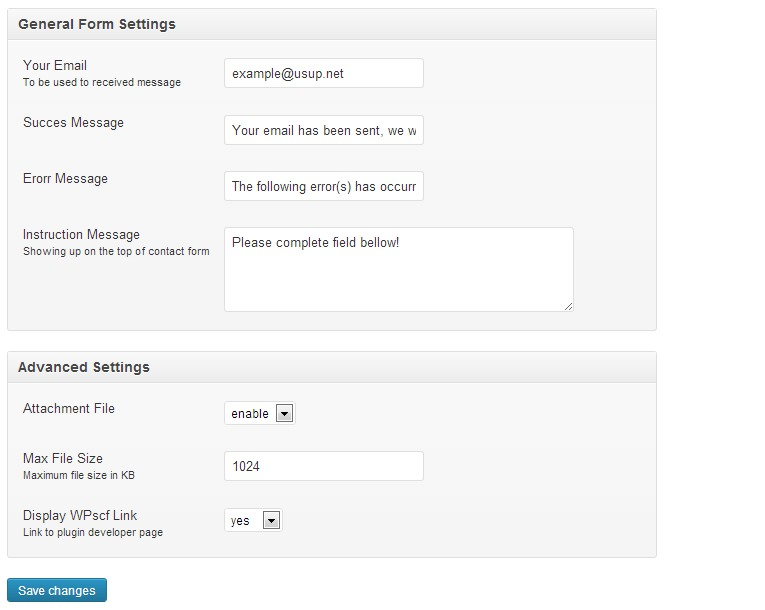
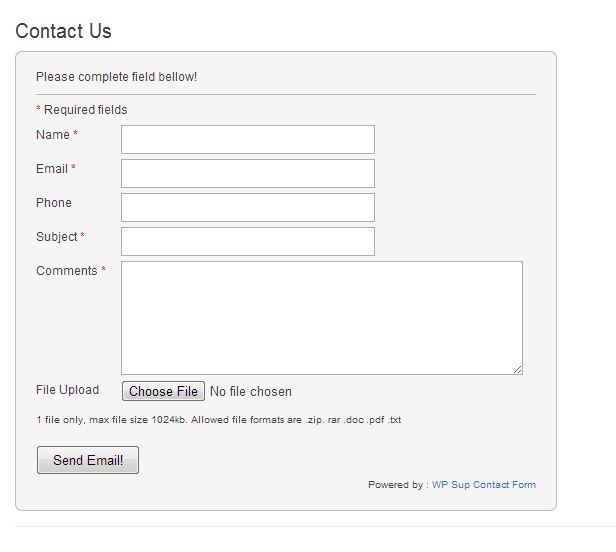
changed
git-svn-id: https://plugins.svn.wordpress.org/wp-sup-contact-form/trunk@812287 b8457f37-d9ea-0310-8a92-e5e31aec5664

diff --git a/recaptchalib.php b/recaptchalib.php
@@ -1,0 +1,277 @@
+<?php
+/*
+ * This is a PHP library that handles calling reCAPTCHA.
+ *    - Documentation and latest version
+ *          http://recaptcha.net/plugins/php/
+ *    - Get a reCAPTCHA API Key
+ *          https://www.google.com/recaptcha/admin/create
+ *    - Discussion group
+ *          http://groups.google.com/group/recaptcha
+ *
+ * Copyright (c) 2007 reCAPTCHA -- http://recaptcha.net
+ * AUTHORS:
+ *   Mike Crawford
+ *   Ben Maurer
+ *
+ * Permission is hereby granted, free of charge, to any person obtaining a copy
+ * of this software and associated documentation files (the "Software"), to deal
+ * in the Software without restriction, including without limitation the rights
+ * to use, copy, modify, merge, publish, distribute, sublicense, and/or sell
+ * copies of the Software, and to permit persons to whom the Software is
+ * furnished to do so, subject to the following conditions:
+ *
+ * The above copyright notice and this permission notice shall be included in
+ * all copies or substantial portions of the Software.
+ *
+ * THE SOFTWARE IS PROVIDED "AS IS", WITHOUT WARRANTY OF ANY KIND, EXPRESS OR
+ * IMPLIED, INCLUDING BUT NOT LIMITED TO THE WARRANTIES OF MERCHANTABILITY,
+ * FITNESS FOR A PARTICULAR PURPOSE AND NONINFRINGEMENT. IN NO EVENT SHALL THE
+ * AUTHORS OR COPYRIGHT HOLDERS BE LIABLE FOR ANY CLAIM, DAMAGES OR OTHER
+ * LIABILITY, WHETHER IN AN ACTION OF CONTRACT, TORT OR OTHERWISE, ARISING FROM,
+ * OUT OF OR IN CONNECTION WITH THE SOFTWARE OR THE USE OR OTHER DEALINGS IN
+ * THE SOFTWARE.
+ */
+
+/**
+ * The reCAPTCHA server URL's
+ */
+define("RECAPTCHA_API_SERVER", "http://www.google.com/recaptcha/api");
+define("RECAPTCHA_API_SECURE_SERVER", "https://www.google.com/recaptcha/api");
+define("RECAPTCHA_VERIFY_SERVER", "www.google.com");
+
+/**
+ * Encodes the given data into a query string format
+ * @param $data - array of string elements to be encoded
+ * @return string - encoded request
+ */
+function _recaptcha_qsencode ($data) {
+        $req = "";
+        foreach ( $data as $key => $value )
+                $req .= $key . '=' . urlencode( stripslashes($value) ) . '&';
+
+        // Cut the last '&'
+        $req=substr($req,0,strlen($req)-1);
+        return $req;
+}
+
+
+
+/**
+ * Submits an HTTP POST to a reCAPTCHA server
+ * @param string $host
+ * @param string $path
+ * @param array $data
+ * @param int port
+ * @return array response
+ */
+function _recaptcha_http_post($host, $path, $data, $port = 80) {
+
+        $req = _recaptcha_qsencode ($data);
+
+        $http_request  = "POST $path HTTP/1.0\r\n";
+        $http_request .= "Host: $host\r\n";
+        $http_request .= "Content-Type: application/x-www-form-urlencoded;\r\n";
+        $http_request .= "Content-Length: " . strlen($req) . "\r\n";
+        $http_request .= "User-Agent: reCAPTCHA/PHP\r\n";
+        $http_request .= "\r\n";
+        $http_request .= $req;
+
+        $response = '';
+        if( false == ( $fs = @fsockopen($host, $port, $errno, $errstr, 10) ) ) {
+                die ('Could not open socket');
+        }
+
+        fwrite($fs, $http_request);
+
+        while ( !feof($fs) )
+                $response .= fgets($fs, 1160); // One TCP-IP packet
+        fclose($fs);
+        $response = explode("\r\n\r\n", $response, 2);
+
+        return $response;
+}
+
+
+
+/**
+ * Gets the challenge HTML (javascript and non-javascript version).
+ * This is called from the browser, and the resulting reCAPTCHA HTML widget
+ * is embedded within the HTML form it was called from.
+ * @param string $pubkey A public key for reCAPTCHA
+ * @param string $error The error given by reCAPTCHA (optional, default is null)
+ * @param boolean $use_ssl Should the request be made over ssl? (optional, default is false)
+
+ * @return string - The HTML to be embedded in the user's form.
+ */
+function recaptcha_get_html ($pubkey, $error = null, $use_ssl = false)
+{
+	if ($pubkey == null || $pubkey == '') {
+		die ("To use reCAPTCHA you must get an API key from <a href='https://www.google.com/recaptcha/admin/create'>https://www.google.com/recaptcha/admin/create</a>");
+	}
+	
+	if ($use_ssl) {
+                $server = RECAPTCHA_API_SECURE_SERVER;
+        } else {
+                $server = RECAPTCHA_API_SERVER;
+        }
+
+        $errorpart = "";
+        if ($error) {
+           $errorpart = "&amp;error=" . $error;
+        }
+        return '<script type="text/javascript" src="'. $server . '/challenge?k=' . $pubkey . $errorpart . '"></script>
+
+	<noscript>
+  		<iframe src="'. $server . '/noscript?k=' . $pubkey . $errorpart . '" height="300" width="500" frameborder="0"></iframe><br/>
+  		<textarea name="recaptcha_challenge_field" rows="3" cols="40"></textarea>
+  		<input type="hidden" name="recaptcha_response_field" value="manual_challenge"/>
+	</noscript>';
+}
+
+
+
+
+/**
+ * A ReCaptchaResponse is returned from recaptcha_check_answer()
+ */
+class ReCaptchaResponse {
+        var $is_valid;
+        var $error;
+}
+
+
+/**
+  * Calls an HTTP POST function to verify if the user's guess was correct
+  * @param string $privkey
+  * @param string $remoteip
+  * @param string $challenge
+  * @param string $response
+  * @param array $extra_params an array of extra variables to post to the server
+  * @return ReCaptchaResponse
+  */
+function recaptcha_check_answer ($privkey, $remoteip, $challenge, $response, $extra_params = array())
+{
+	if ($privkey == null || $privkey == '') {
+		die ("To use reCAPTCHA you must get an API key from <a href='https://www.google.com/recaptcha/admin/create'>https://www.google.com/recaptcha/admin/create</a>");
+	}
+
+	if ($remoteip == null || $remoteip == '') {
+		die ("For security reasons, you must pass the remote ip to reCAPTCHA");
+	}
+
+	
+	
+        //discard spam submissions
+        if ($challenge == null || strlen($challenge) == 0 || $response == null || strlen($response) == 0) {
+                $recaptcha_response = new ReCaptchaResponse();
+                $recaptcha_response->is_valid = false;
+                $recaptcha_response->error = 'incorrect-captcha-sol';
+                return $recaptcha_response;
+        }
+
+        $response = _recaptcha_http_post (RECAPTCHA_VERIFY_SERVER, "/recaptcha/api/verify",
+                                          array (
+                                                 'privatekey' => $privkey,
+                                                 'remoteip' => $remoteip,
+                                                 'challenge' => $challenge,
+                                                 'response' => $response
+                                                 ) + $extra_params
+                                          );
+
+        $answers = explode ("\n", $response [1]);
+        $recaptcha_response = new ReCaptchaResponse();
+
+        if (trim ($answers [0]) == 'true') {
+                $recaptcha_response->is_valid = true;
+        }
+        else {
+                $recaptcha_response->is_valid = false;
+                $recaptcha_response->error = $answers [1];
+        }
+        return $recaptcha_response;
+
+}
+
+/**
+ * gets a URL where the user can sign up for reCAPTCHA. If your application
+ * has a configuration page where you enter a key, you should provide a link
+ * using this function.
+ * @param string $domain The domain where the page is hosted
+ * @param string $appname The name of your application
+ */
+function recaptcha_get_signup_url ($domain = null, $appname = null) {
+	return "https://www.google.com/recaptcha/admin/create?" .  _recaptcha_qsencode (array ('domains' => $domain, 'app' => $appname));
+}
+
+function _recaptcha_aes_pad($val) {
+	$block_size = 16;
+	$numpad = $block_size - (strlen ($val) % $block_size);
+	return str_pad($val, strlen ($val) + $numpad, chr($numpad));
+}
+
+/* Mailhide related code */
+
+function _recaptcha_aes_encrypt($val,$ky) {
+	if (! function_exists ("mcrypt_encrypt")) {
+		die ("To use reCAPTCHA Mailhide, you need to have the mcrypt php module installed.");
+	}
+	$mode=MCRYPT_MODE_CBC;   
+	$enc=MCRYPT_RIJNDAEL_128;
+	$val=_recaptcha_aes_pad($val);
+	return mcrypt_encrypt($enc, $ky, $val, $mode, "\0\0\0\0\0\0\0\0\0\0\0\0\0\0\0\0");
+}
+
+
+function _recaptcha_mailhide_urlbase64 ($x) {
+	return strtr(base64_encode ($x), '+/', '-_');
+}
+
+/* gets the reCAPTCHA Mailhide url for a given email, public key and private key */
+function recaptcha_mailhide_url($pubkey, $privkey, $email) {
+	if ($pubkey == '' || $pubkey == null || $privkey == "" || $privkey == null) {
+		die ("To use reCAPTCHA Mailhide, you have to sign up for a public and private key, " .
+		     "you can do so at <a href='http://www.google.com/recaptcha/mailhide/apikey'>http://www.google.com/recaptcha/mailhide/apikey</a>");
+	}
+	
+
+	$ky = pack('H*', $privkey);
+	$cryptmail = _recaptcha_aes_encrypt ($email, $ky);
+	
+	return "http://www.google.com/recaptcha/mailhide/d?k=" . $pubkey . "&c=" . _recaptcha_mailhide_urlbase64 ($cryptmail);
+}
+
+/**
+ * gets the parts of the email to expose to the user.
+ * eg, given johndoe@example,com return ["john", "example.com"].
+ * the email is then displayed as john...@example.com
+ */
+function _recaptcha_mailhide_email_parts ($email) {
+	$arr = preg_split("/@/", $email );
+
+	if (strlen ($arr[0]) <= 4) {
+		$arr[0] = substr ($arr[0], 0, 1);
+	} else if (strlen ($arr[0]) <= 6) {
+		$arr[0] = substr ($arr[0], 0, 3);
+	} else {
+		$arr[0] = substr ($arr[0], 0, 4);
+	}
+	return $arr;
+}
+
+/**
+ * Gets html to display an email address given a public an private key.
+ * to get a key, go to:
+ *
+ * http://www.google.com/recaptcha/mailhide/apikey
+ */
+function recaptcha_mailhide_html($pubkey, $privkey, $email) {
+	$emailparts = _recaptcha_mailhide_email_parts ($email);
+	$url = recaptcha_mailhide_url ($pubkey, $privkey, $email);
+	
+	return htmlentities($emailparts[0]) . "<a href='" . htmlentities ($url) .
+		"' onclick=\"window.open('" . htmlentities ($url) . "', '', 'toolbar=0,scrollbars=0,location=0,statusbar=0,menubar=0,resizable=0,width=500,height=300'); return false;\" title=\"Reveal this e-mail address\">...</a>@" . htmlentities ($emailparts [1]);
+
+}
+
+
+?>

diff --git a/wpscf-frame-work.php b/wpscf-frame-work.php
@@ -11,13 +11,7 @@ session_start();
 // prints form
 function call_wpscf_form(){
 ?>
- <script type="text/javascript">
- 		function refresh()
-		{
-       document.getElementById('captcha-image-new').src='http://localhost/wordpress/wp-content/plugins/wp-sup-contact-form/captcha.php?'+Math.random();
-       document.getElementById('captcha').focus();
-		}
-        </script>
+
 <div class="wpscf_wrap">
 <p style="border-bottom:1px solid #B9B9B9;padding:0 0 7px;font-weight:bold"><?php echo wpscf_prx('wpscf_instruction') ?></p>
 <p><span class="required">*</span> Required fields</p>
@@ -44,11 +38,26 @@ function call_wpscf_form(){
 		<p><small>1 file only, max file size <?php echo wpscf_prx('max_file_size'); ?>kb. Allowed file formats are .zip. rar .doc .pdf .txt</small></p>
 	<?php endif; ?>
 
-	 <p>
+	<?php if (wpscf_prx('allow_recaptcha')=='enable'): ?>
+	<p style="clear:both">
 	<label for="captchatext">Security code</label>
-	<img style="float:left;width:100px;height:30px;margin:0 5px 0 0" src="http://localhost/wordpress/wp-content/plugins/wp-sup-contact-form/captcha.php" id="captcha-image-new" alt="Captcha Image" />
-	<input style="width:75px;" name="captchatext" type="text" value="" tabindex="8"/> <a style="cursor:pointer;color:blue"  onClick="javascript:refresh();"  id="change-image">Click here to refresh</a>
-	 </p>
+	<div style="width:400px;float:left;display: block;margin: 0 0 10px 0;">
+	 <script type="text/javascript">
+		 var RecaptchaOptions = {
+		    theme : '<?php echo wpscf_prx('recaptcha_scheme') ?>'
+		 };
+ 	</script>
+  	<script type="text/javascript" src="http://api.recaptcha.net/challenge?k=<?php echo wpscf_prx('recaptcha_public_key') ?>"></script>
+  		<noscript>
+    		<iframe src="http://api.recaptcha.net/noscript?k=<?php echo wpscf_prx('recaptcha_public_key') ?>" height="300" width="500" frameborder="0"></iframe>
+    		<textarea name="recaptcha_challenge_field" rows="3" cols="60"></textarea>
+    		<input type="hidden" name="recaptcha_response_field" value="manual_challenge">
+  		</noscript>
+  	<!-- END RECAPTCHA CODE -->
+	</div>
+  	</p>
+
+	<?php endif; ?>
 	
 	<p><input type="submit" name="submit" id="submit" value="Send Email!"  tabindex="9"/></p>
 	<p><input type="hidden" name="submitted"  value="true" /></p>
@@ -111,11 +120,18 @@ function process_form() {
 		$errors[]='You forgot to enter your message';
 		}
 
-// check the captcha
-	if ($_SESSION['img_ver'] != $_POST['captchatext']) {
-   	// change this to what you want to do if something goes wrong  
-	$errors[]='not a match for the captcha';
-	}
+// check the captcha  
+
+	if (wpscf_prx('allow_recaptcha')=='enable'){
+		require_once(WP_PLUGIN_DIR.'/wp-sup-contact-form/recaptchalib.php');
+          	$resp = recaptcha_check_answer(wpscf_prx('recaptcha_private_key'),$_SERVER["REMOTE_ADDR"],$_POST["recaptcha_challenge_field"],$_POST["recaptcha_response_field"]);
+				  if (!$resp->is_valid){
+				    $errors[] = "Security Code/reCAPTCHA wasn't entered correctly";
+				  }
+				}
+ 
+				 
+			 
 		
  	// checks for required file
 	if($requirefile=="true") {

diff --git a/wpscf-settings.php b/wpscf-settings.php
@@ -53,6 +53,35 @@ $wpscfoptions = array (
 		"type"=>"open",
 		),
 	array(  
+		"name"=>"Enable Recaptcha",	
+		"id"=>$shortname."_allow_recaptcha",
+		"std"=>"disable",
+		"type"=>"select",
+		"wpscfoptions"=>array('disable','enable'),
+		"note"=>'Get reCaptcha Key <a href="https://www.google.com/recaptcha/admin/create"><span style="color:red">Signup Here</span></a>'),
+	array(  
+		"name"=>"Color Scheme",	
+		"id"=>$shortname."_recaptcha_scheme",
+		"std"=>"disable",
+		"type"=>"select",
+		"wpscfoptions"=>array('red','white','blackglass','clean'),
+		"note"=>'reCaptcha Color Theme'),
+	array(
+		"name"=>"Publick Key",
+		"id"=>$shortname."_recaptcha_public_key",
+		"std"=>"",
+		"type"=>"text",
+		"note"=>"Recaptcha Public Key"
+		),
+	array(
+		"name"=>"Private Key",
+		"id"=>$shortname."_recaptcha_private_key",
+		"std"=>"",
+		"type"=>"text",
+		"note"=>"Recaptcha Private Key"
+		),
+
+	array(  
 		"name"=>"Attachment File",	
 		"id"=>$shortname."_allow_attc",
 		"std"=>"disable",
